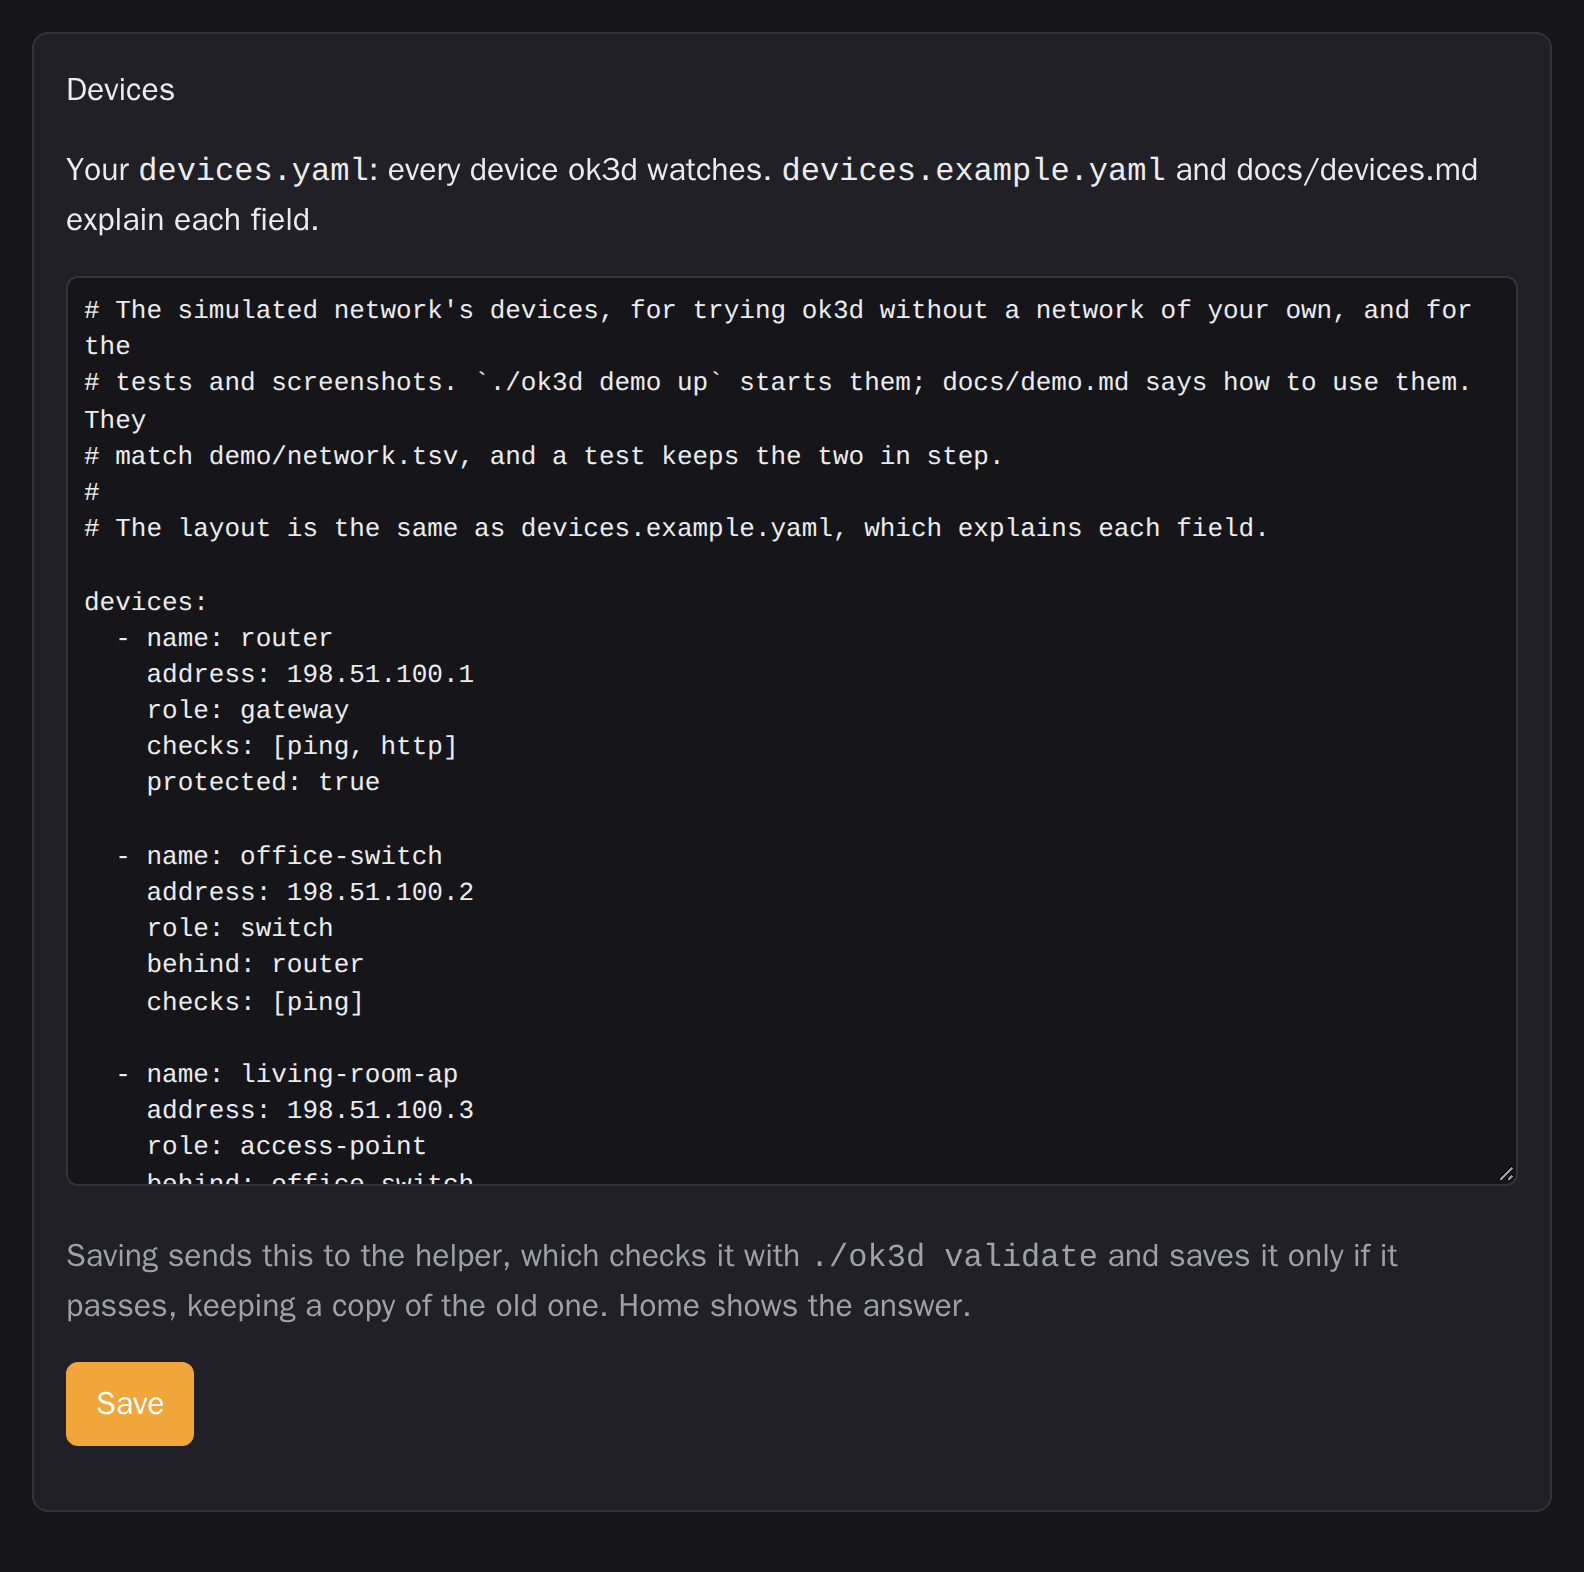
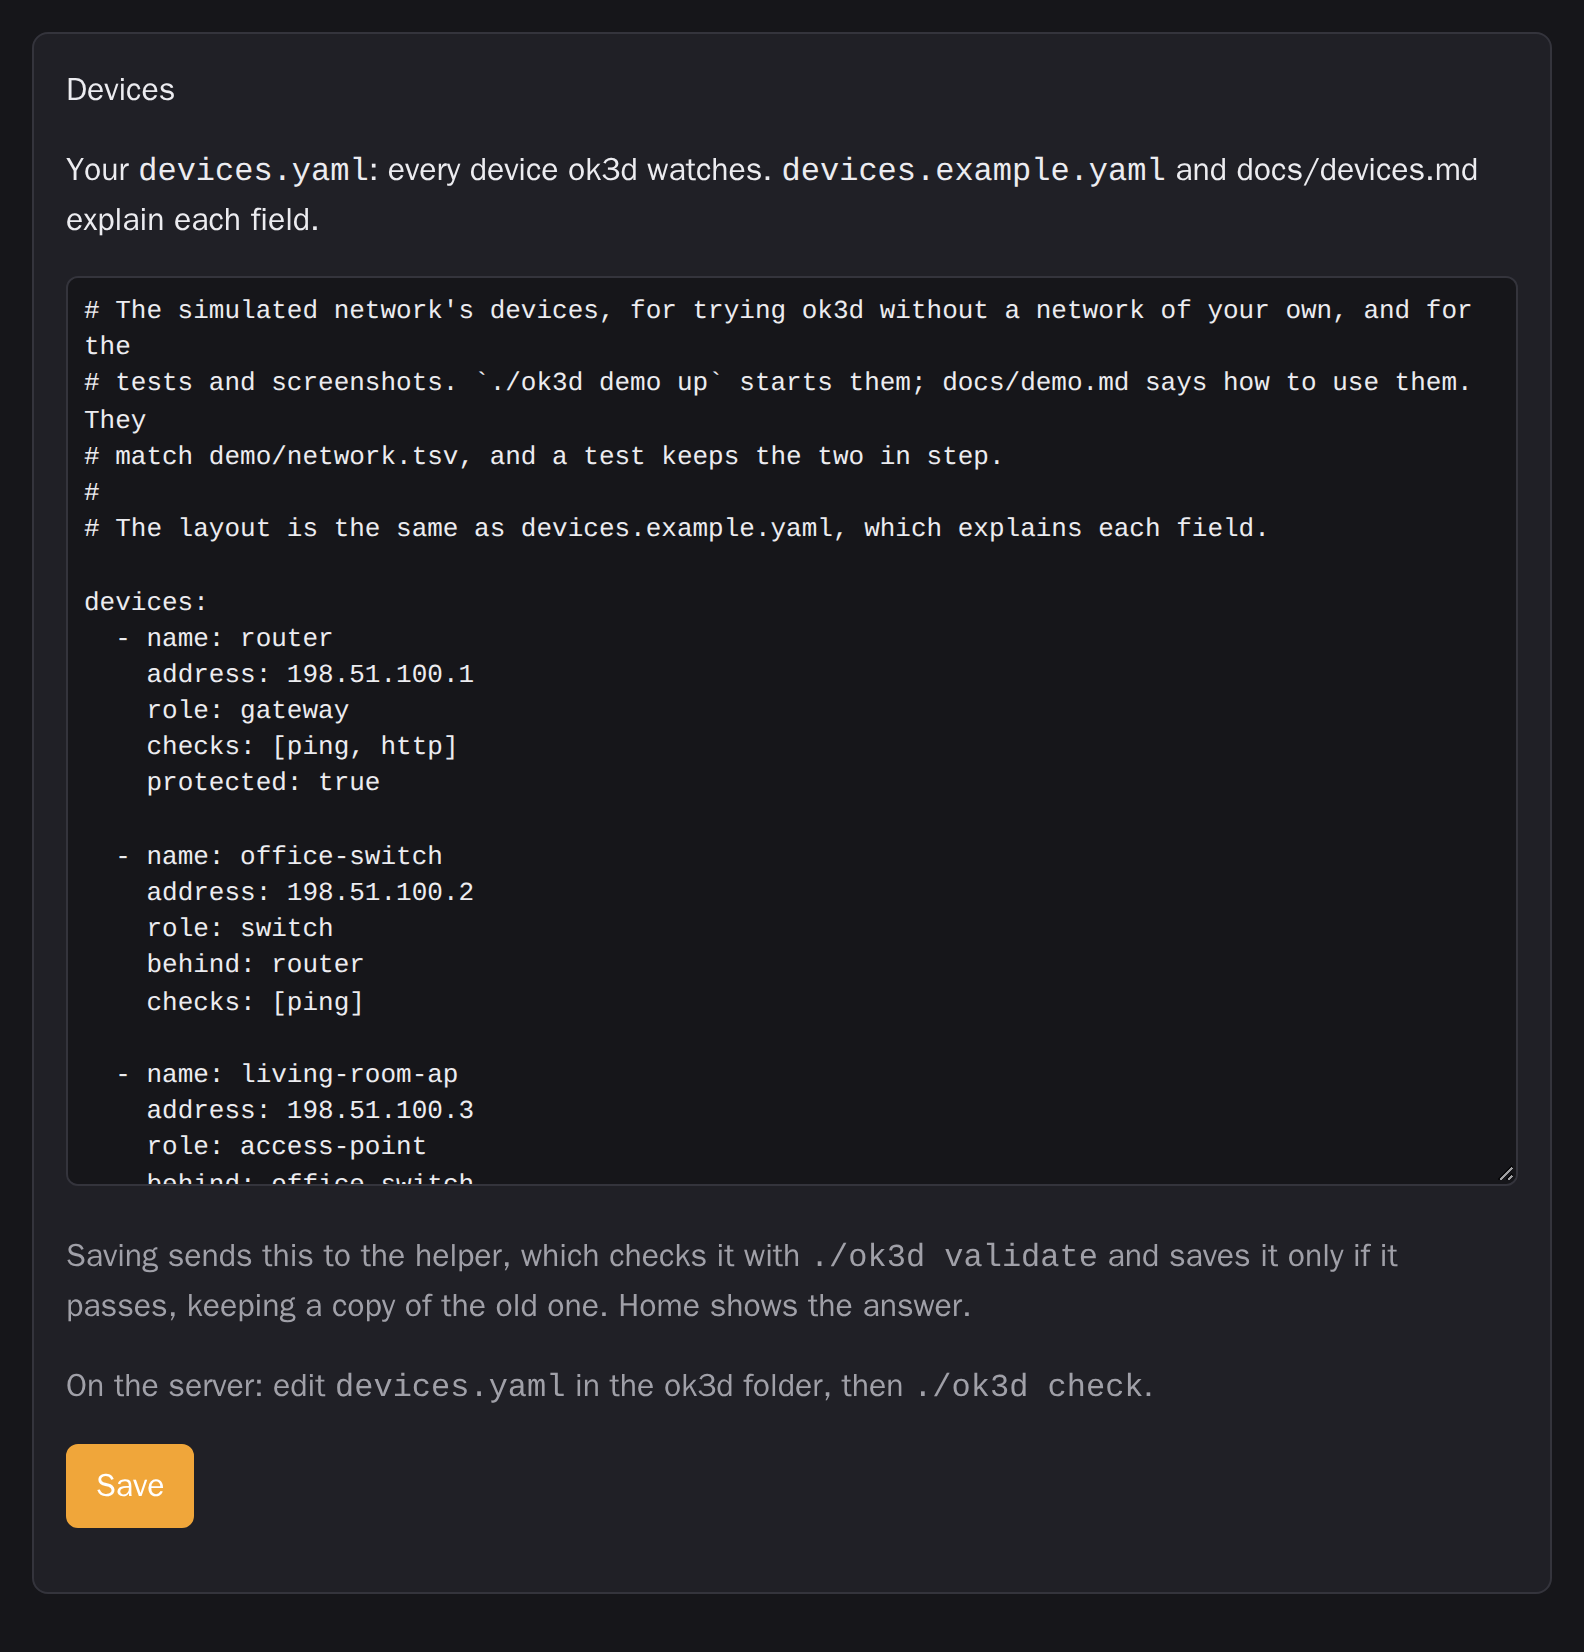
Release 0.5.1: screenshots from the release, and the upgrade note
Every Dashboard screenshot retaken from the release branch on a fresh
test VM (scripts/screenshots.sh --setup), so they show 0.5.1 and each
page's new text, with a new one of the Maintenance page. Each was looked
at before committing; sign-in didn't change. The alt texts say what's
new.

The changelog's Upgrading note says to Check and Apply after the
installer, that Apply restarts the gateway coming from 0.5.0, and that
Apply's question needs Helm 3.13.

Changed region(s): [[0.0309, 0.0935, 0.928, 0.9351], [0.0309, 0.0312, 0.1237, 0.0623]]

diff --git a/docs/dashboard.md b/docs/dashboard.md
@@ -39,7 +39,7 @@ minute.
 
 <picture>
   <source media="(prefers-color-scheme: dark)" srcset="../images/screenshots/dashboard-home-dark.png">
-  <img src="../images/screenshots/dashboard-home-light.png" alt="The Dashboard's Home page: ok3d's version, the helper running, the Check and Apply buttons, a Before you Apply list saying alerts go nowhere yet, What's next with five steps and links to the certificate authority and Grafana, and the helper's last answer, a Check that finished with exit status 0, with what ok3d check printed." width="700">
+  <img src="../images/screenshots/dashboard-home-light.png" alt="The Dashboard's Home page: ok3d 0.5.1, the helper running, the Check and Apply buttons with a note that Apply will change nothing that's running and the same commands on the server, a Before you Apply list saying alerts go nowhere yet, What's next with five steps and links to the certificate authority and Grafana, the helper's last answer, a Check that finished with exit status 0, with what ok3d check printed, and Releases, with a Look for a new release button." width="700">
 </picture>
 
 Each page also says what its buttons do on the server, as the command or the line in a file
@@ -86,7 +86,7 @@ backups it makes, and what to do if an upgrade stops partway.
 
 <picture>
   <source media="(prefers-color-scheme: dark)" srcset="../images/screenshots/dashboard-setup-dark.png">
-  <img src="../images/screenshots/dashboard-setup-light.png" alt="The Dashboard's Setup page: four ready-made setups as cards (Basic NOC, marked as the setup now; Network NOC, which needs the UniFi controller's address first; NOC with logs, coming in 0.6; and NOC with agents, coming in 0.9), then each part (UniFi, off until its controller's address is set, and the rest coming in later releases), then where alerts go: ntfy, email, and the dead man's switch, each off, with a Turn on button." width="700">
+  <img src="../images/screenshots/dashboard-setup-light.png" alt="The Dashboard's Setup page, each choice with the settings.yaml line it writes: four ready-made setups as cards (Basic NOC, marked as the setup now; Network NOC, which needs the UniFi controller's address first; NOC with logs, coming in 0.6; and NOC with agents, coming in 0.9), then each part (UniFi, off until its controller's address is set, and the rest coming in later releases), then where alerts go: ntfy, email, and the dead man's switch, each off, with a Turn on button." width="700">
 </picture>
 
 Choose a ready-made setup, or switch the parts on and off yourself:
@@ -105,7 +105,7 @@ a later release says which one.
 
 <picture>
   <source media="(prefers-color-scheme: dark)" srcset="../images/screenshots/dashboard-devices-dark.png">
-  <img src="../images/screenshots/dashboard-devices-light.png" alt="The Dashboard's Devices page: devices.yaml in a text box, listing the simulated network's router, switch, access points, NAS, printer, and UniFi controller, with a Save button." width="700">
+  <img src="../images/screenshots/dashboard-devices-light.png" alt="The Dashboard's Devices page: devices.yaml in a text box, listing the simulated network's router, switch, access points, NAS, printer, and UniFi controller, with the same edit on the server and a Save button." width="700">
 </picture>
 
 These show `settings.yaml` and `devices.yaml` as they are on the server, to change and save.
@@ -117,6 +117,11 @@ file on the server.
 
 ## Maintenance
 
+<picture>
+  <source media="(prefers-color-scheme: dark)" srcset="../images/screenshots/dashboard-maintenance-dark.png">
+  <img src="../images/screenshots/dashboard-maintenance-light.png" alt="The Dashboard's Maintenance page: no maintenance windows yet, a button to read them again from Alertmanager, and a form to add one: for all of ok3d or ticked devices from the simulated network, from now for a length or between two times in the server's own time, and why, with the same command on the server." width="700">
+</picture>
+
 **Maintenance** lists the maintenance windows: times when alerts don't notify you, for all of
 ok3d or for the devices you choose. Add one from now for a length, or between two times in
 the server's own time, with a reason if you like; **End now** ends one early. Home says while
@@ -127,7 +132,7 @@ details.
 
 <picture>
   <source media="(prefers-color-scheme: dark)" srcset="../images/screenshots/dashboard-keys-dark.png">
-  <img src="../images/screenshots/dashboard-keys-light.png" alt="The Dashboard's Keys page: the UniFi API key, the ntfy topic and token, and the mail password, each saying whether it's set, with a box to type a new one and a Save button." width="700">
+  <img src="../images/screenshots/dashboard-keys-light.png" alt="The Dashboard's Keys page: the UniFi API key, the ntfy topic and token, and the mail password, each saying whether it's set and which line of .env it goes into on the server, with a box to type a new one and a Save button." width="700">
 </picture>
 
 Keys and passwords go into `.env` on the server. The Dashboard shows only whether each one is

diff --git a/CHANGELOG.md b/CHANGELOG.md
@@ -4,8 +4,14 @@
 
 ### Upgrading
 
-- From 0.5.0 or 0.4, run the installer again, as for 0.5.0 ([docs/upgrading.md](docs/upgrading.md#to-051-from-050-or-04)).
-  From 0.5.1 on, the Dashboard upgrades ok3d itself.
+- From 0.5.0 or 0.4, run the installer again, as for 0.5.0
+  ([docs/upgrading.md](docs/upgrading.md#to-051-from-050-or-04)). If ok3d isn't in `~/ok3d`,
+  put `OK3D_DIR=/path/to/ok3d` before `sh`. Then **Check** and **Apply** on the Dashboard.
+  Apply now asks first: from 0.5.0 it restarts the gateway, so ok3d's pages are unavailable
+  for a moment, and the rest changes without stopping anything.
+- From 0.5.1 on, the Dashboard upgrades ok3d itself: **Look for a new release** on Home.
+- Apply's question needs Helm 3.13 or newer to know what would change; with an older Helm,
+  Check warns, and Apply always asks.
 
 ### Changes
 
